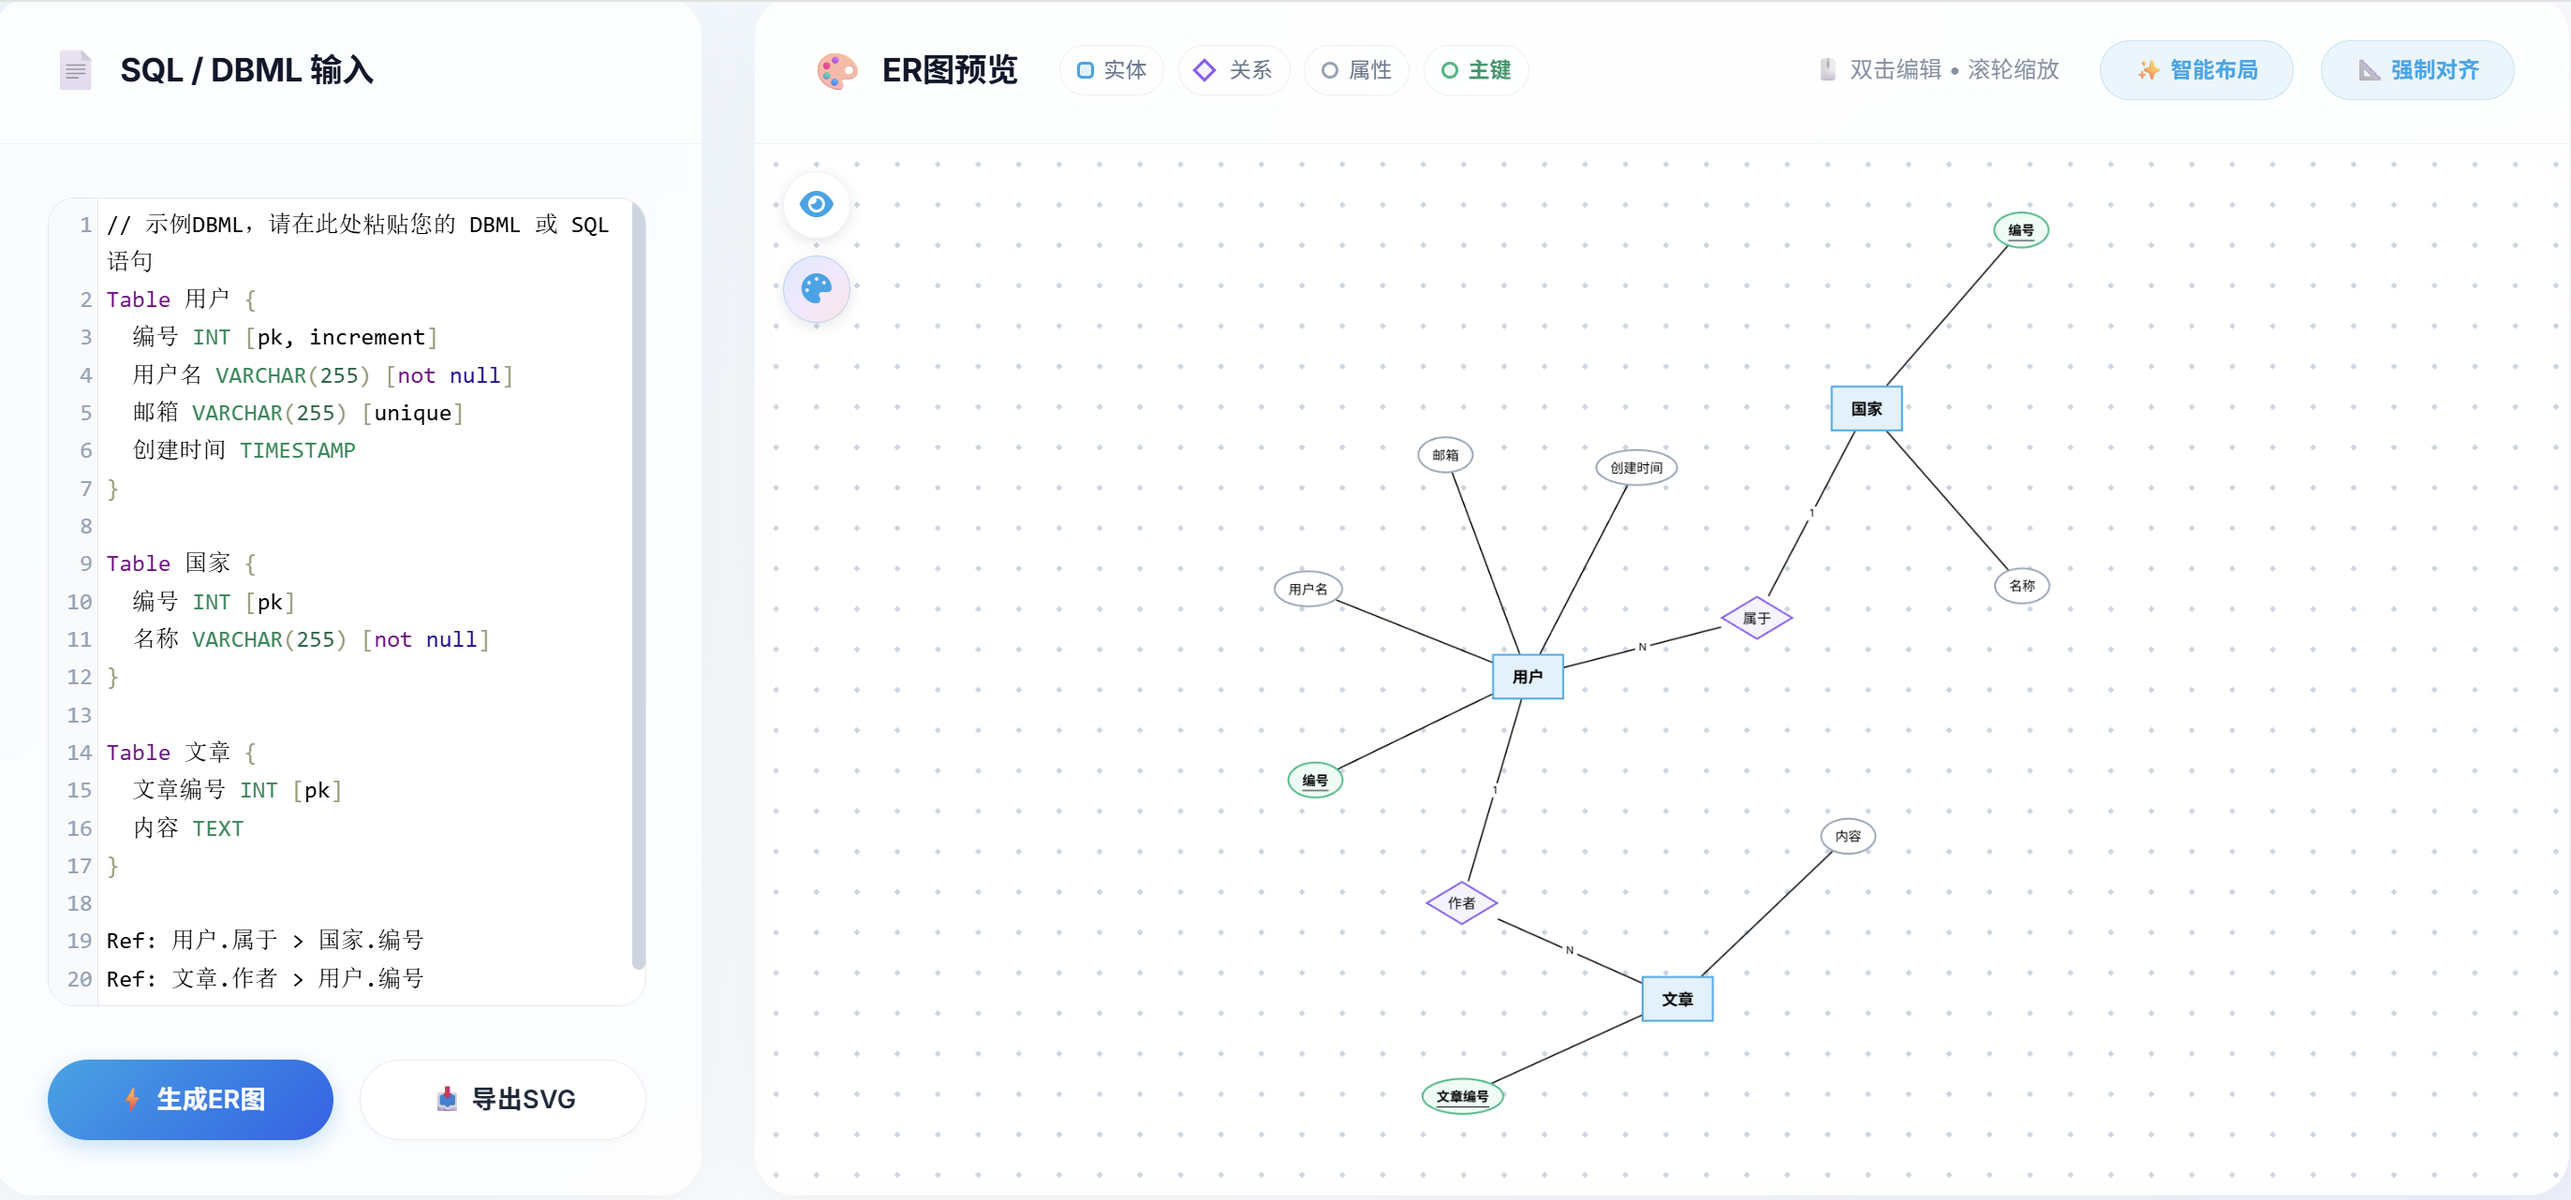
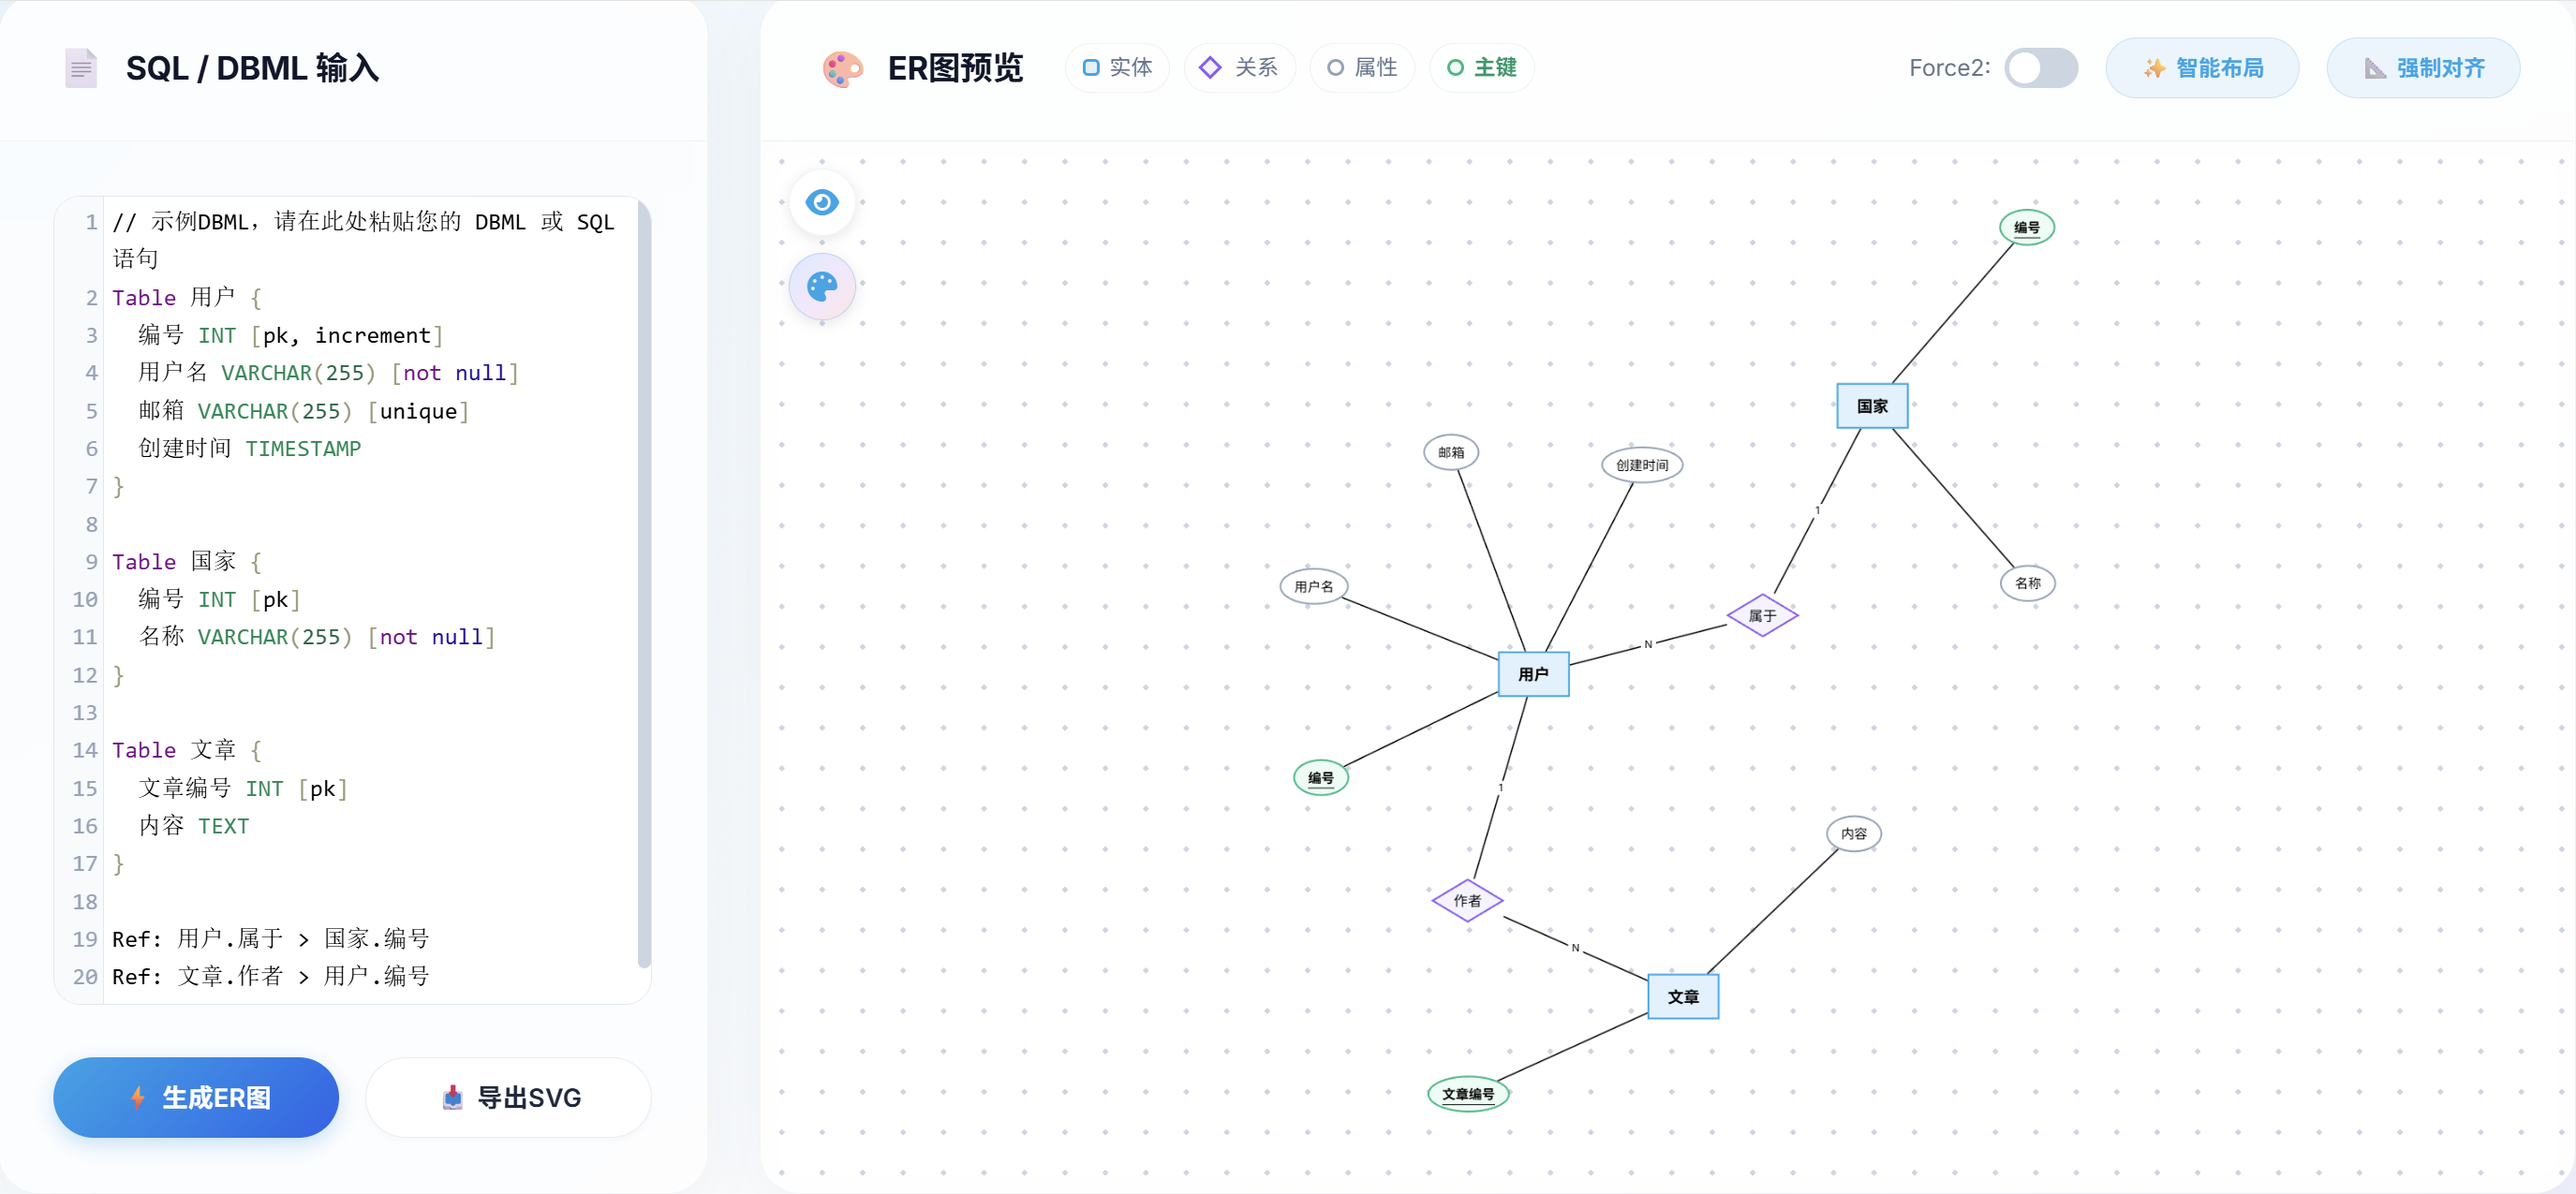
feat: add Force2 toggle for enhanced diagram layout stability

diff --git a/sql2er.html b/sql2er.html
@@ -64,7 +64,7 @@
 
         .header {
             text-align: center;
-            margin-bottom: 60px;
+            margin-bottom: 32px;
             animation: fadeInDown 1s cubic-bezier(0.16, 1, 0.3, 1);
         }
 
@@ -908,6 +908,7 @@
         <div class="header">
             <h1>SQL/DBML转ER图生成器</h1>
             <p>基于Chen模型的数据库设计工具</p>
+            <p style="font-size: 0.9rem; color: #94a3b8; margin-top: 8px;">🖱 双击编辑 • 滚轮缩放</p>
         </div>
 
         <div id="root"></div>
@@ -1606,6 +1607,7 @@ Ref: 文章.作者 > 用户.编号
                 const [error, setError] = useState(null);
                 const [loading, setLoading] = useState(false);
                 const [hasGraph, setHasGraph] = useState(false);
+                const [useForce2, setUseForce2] = useState(false);
                 const lastInputRef = useRef(''); // 记录上次生成时的输入
                 const containerRef = useRef(null);
                 const graphRef = useRef(null);
@@ -2158,7 +2160,47 @@ Ref: 文章.作者 > 用户.编号
                             },
 
                             // 优化后的力导向布局配置，以完全避免重叠
-                            layout: {
+                            layout: useForce2 ? {
+                                type: 'force2', // 使用 force2 布局
+                                preventOverlap: true, // 确保节点不重叠
+                                // 忽略文本长度，统一处理椭圆/菱形尺寸，避免因内容长短造成布局偏差
+                                nodeSize: (node) => {
+                                    const uniformSizes = {
+                                        entity: 140,
+                                        relationship: 90,
+                                        attribute: 90
+                                    };
+                                    return uniformSizes[node.nodeType] || 90;
+                                },
+                                nodeSpacing: 20,     // 增加节点间距
+                                linkDistance: 120,   // 连线长度
+                                // force2 特定参数
+                                coulombDisScale: 0.005,  // 库仑力的缩放因子
+                                damping: 0.9,            // 阻尼系数
+                                maxSpeed: 1000,          // 最大速度
+                                minMovement: 0.5,        // 最小移动量
+                                interval: 0.02,          // 迭代间隔
+                                factor: 1,               // 斥力因子
+                                maxIteration: 800,       // 最大迭代次数
+                                animate: true,           // 启用动画以显示布局过程
+                                center: [containerRef.current.offsetWidth / 2, 300], // 布局中心
+                                clustering: false,       // 不使用聚类
+                                tick: () => {
+                                    // 逐帧刷新以展现自动调整过程
+                                    graph.refreshPositions();
+                                },
+                                onLayoutEnd: () => {
+                                    // 先让互不相连的组件环绕分布，避免十字交叉
+                                    setTimeout(() => {
+                                        if (graphRef.current && !graphRef.current.destroyed) {
+                                            spreadDisconnectedComponents(graphRef.current, () => {
+                                                // 布局完成后平滑调整视图
+                                                smoothFitView(graphRef.current, 800, 'easeOutCubic');
+                                            });
+                                        }
+                                    }, 30);
+                                }
+                            } : {
                                 type: 'force', // 使用普通 force 布局
                                 preventOverlap: true, // 确保节点不重叠
                                 // 忽略文本长度，统一处理椭圆/菱形尺寸，避免因内容长短造成布局偏差
@@ -3758,8 +3800,38 @@ Ref: 文章.作者 > 用户.编号
                                     </div>
 
                                     <div style={{ display: 'flex', alignItems: 'center', gap: '16px', marginLeft: 'auto' }}>
-                                        <div style={{ fontSize: '0.85rem', color: 'var(--text-sub)', opacity: 0.8, whiteSpace: 'nowrap', marginRight: '8px' }}>
-                                            🖱 双击编辑 • 滚轮缩放
+                                        <div style={{ display: 'flex', alignItems: 'center', gap: '8px' }}>
+                                            <span style={{ fontSize: '0.85rem', color: 'var(--text-sub)' }}>Force2:</span>
+                                            <label style={{ position: 'relative', display: 'inline-block', width: '44px', height: '24px', cursor: 'pointer' }}>
+                                                <input
+                                                    type="checkbox"
+                                                    checked={useForce2}
+                                                    onChange={(e) => setUseForce2(e.target.checked)}
+                                                    style={{ opacity: 0, width: 0, height: 0 }}
+                                                />
+                                                <span style={{
+                                                    position: 'absolute',
+                                                    top: 0,
+                                                    left: 0,
+                                                    right: 0,
+                                                    bottom: 0,
+                                                    backgroundColor: useForce2 ? '#0ea5e9' : '#cbd5e1',
+                                                    borderRadius: '24px',
+                                                    transition: 'background-color 0.3s'
+                                                }}>
+                                                    <span style={{
+                                                        position: 'absolute',
+                                                        content: '',
+                                                        height: '18px',
+                                                        width: '18px',
+                                                        left: useForce2 ? '23px' : '3px',
+                                                        bottom: '3px',
+                                                        backgroundColor: 'white',
+                                                        borderRadius: '50%',
+                                                        transition: 'left 0.3s'
+                                                    }}></span>
+                                                </span>
+                                            </label>
                                         </div>
                                         <button
                                             className="btn btn-sm btn-accent"

diff --git a/README.en.md b/README.en.md
@@ -78,6 +78,8 @@ Ref: posts.author_id > users.id
 
 When the code is complex, direct generation may not produce a satisfactory diagram. In this case, you can first click the **Force Alignment** button in the top right corner, and then click **Smart Layout** to automatically organize a new layout, which should be relatively neat in theory and only require minor adjustments.
 
+The **Force2** toggle is disabled by default. If the generated diagram looks messy, you can enable this toggle and generate again. It provides a more stable structure.
+
 If in rare cases it's still messy, you can **manually** drag the rectangles (entities) to suitable positions (no need to move other elements), and then click the **Smart Layout** button, which will automatically organize the layout.
 
 For example:

diff --git a/README.md b/README.md
@@ -82,6 +82,8 @@ Ref: posts.author_id > users.id
 
 当代码比较复杂时，可能无法直接生成出令人满意的图，此时可以先点击右上角的**强制对齐**按钮，然后再点击**智能布局**，即可自动整理一个新的布局，理论上此时应当比较整齐，仅需微调即可。
 
+Force2 开关默认处于关闭，如果觉得生成的图比较乱，可以打开此开关再生成一次，它能提供更稳定的结构。
+
 若在少数情况下仍然比较乱，可以**手动**先将矩形（实体）拖拽到合适位置（无需拖动其他的），然后点击**智能布局**按钮，这将会自动整理布局。
 
 例如：
